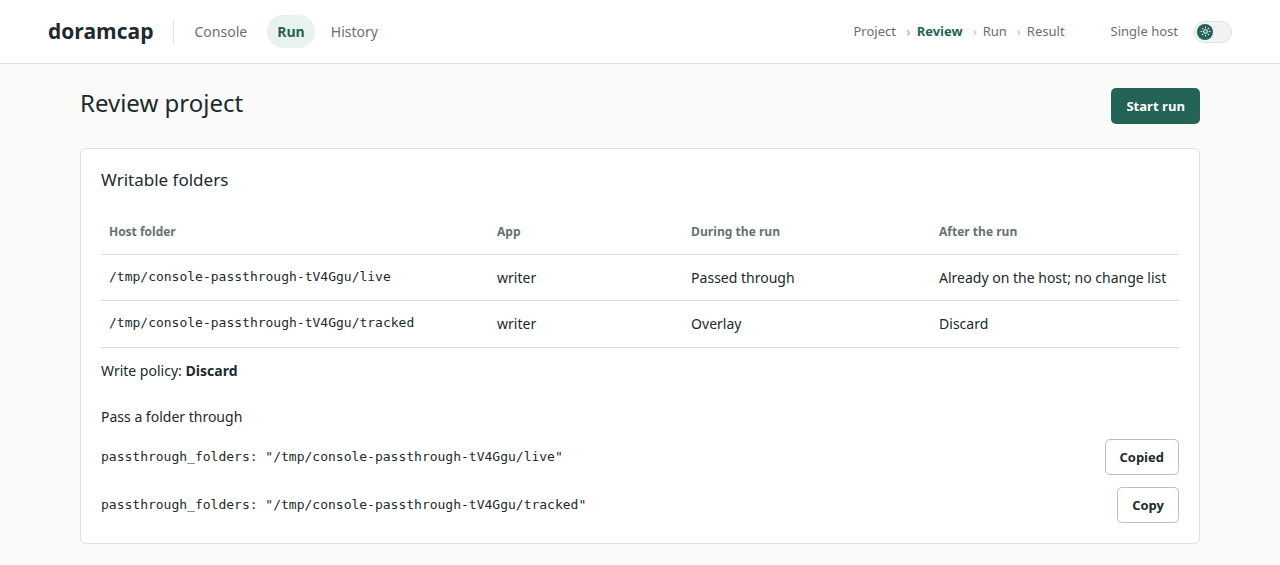
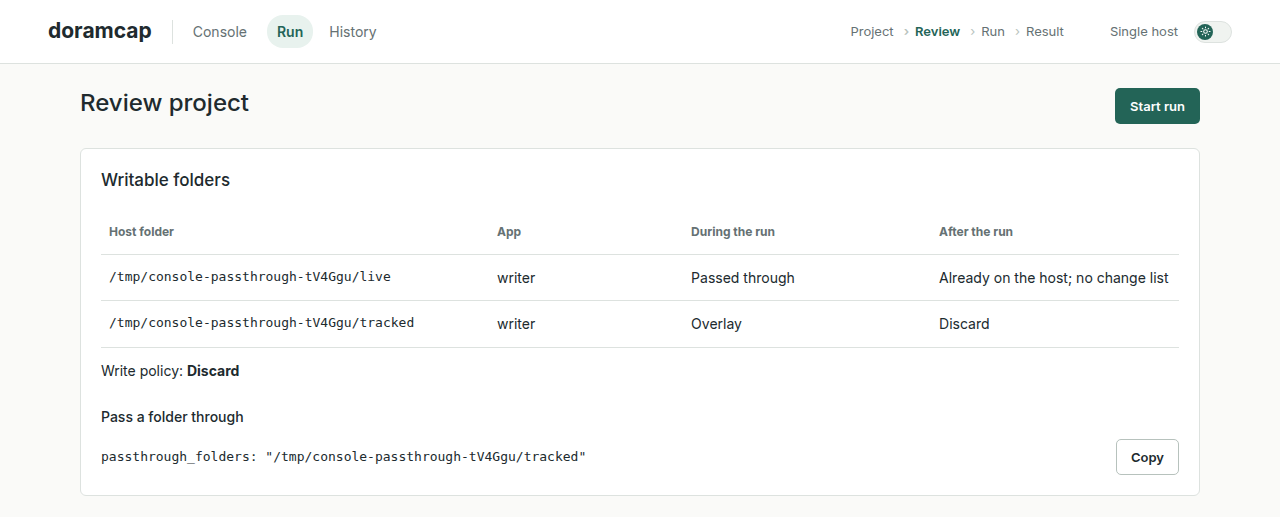
fix(console): offer passthrough settings only for overlay folders

diff --git a/console/frontend/src/ui/tokens.css b/console/frontend/src/ui/tokens.css
@@ -4,7 +4,7 @@
 --console-success:light-dark(#267047,#9fd8b4);--console-success-soft:light-dark(#eaf5ec,#1f3a2c);--console-attention:light-dark(#8b5a13,#e3bb7a);--console-attention-soft:light-dark(#fff3dc,#3a2f1c);--console-attention-line:light-dark(#e7c99b,#6b5530);--console-failure:light-dark(#8b2929,#f0a5a5);--console-failure-soft:light-dark(#fbecec,#402424);
 --console-step-running:light-dark(#177763,#5fbf9f);--console-step-succeeded:light-dark(#4a8bb7,#6fa9d1);--console-step-failed:light-dark(#b13c3c,#e07a7a);--console-step-cancelled:light-dark(#a26a1a,#d6a24f);--console-step-unknown:light-dark(#72857d,#8a9a94);--console-flow-dependency:light-dark(#526bb0,#8ea3dc);--console-flow-parent:light-dark(#8c6924,#c9a35a);
 @media(max-width:600px){--console-control-height:44px}
-font-family:system-ui,sans-serif;color:var(--console-ink);background:var(--console-bg);font-size:var(--console-font-size);line-height:1.55;
+font-family:var(--console-font);color:var(--console-ink);background:var(--console-bg);font-size:var(--console-font-size);line-height:1.55;
 &,*{box-sizing:border-box}button,input{font:inherit}button,a,input{outline-offset:2px}button:focus-visible,a:focus-visible,input:focus-visible{outline:2px solid var(--console-accent)}.topbar{height:64px;background:var(--console-panel);border-bottom:1px solid var(--console-line);display:flex;align-items:center;gap:20px;padding:0 48px;color:var(--console-muted)}.topbar strong{font-size:21px;color:var(--console-ink)}.divider{height:24px;width:1px;background:var(--console-line)}.topbar-end{display:flex;align-items:center;gap:16px;margin-left:auto}.phase-rail+.topbar-end{margin-left:24px}.host{font-size:13px}.theme-switch{display:flex;align-items:center;min-height:44px;padding:0;border:0;background:none;cursor:pointer}.theme-track{display:flex;width:38px;padding:2px;border:1px solid var(--console-line);border-radius:11px;background:var(--console-soft)}.theme-thumb{display:flex;align-items:center;justify-content:center;width:16px;height:16px;border-radius:50%;background:var(--console-accent);color:var(--console-panel);transition:transform .15s}.theme-switch[aria-checked=true] .theme-thumb{transform:translateX(18px)}@media(prefers-reduced-motion:reduce){.theme-thumb{transition:none}}.page{max-width:1200px;margin:auto;padding:24px 40px 40px}.phase-rail{display:flex;gap:6px;align-items:center;flex-wrap:wrap;margin-left:auto;font-size:13px}.phase{display:flex;align-items:center;padding:4px 2px;color:var(--console-muted)}.phase+.phase::before{content:'›';margin-right:6px;color:var(--console-field-line)}.phase.current{color:var(--console-accent);font-weight:600}.heading{display:flex;justify-content:space-between;align-items:flex-start;gap:24px;margin-bottom:24px}.heading h1{margin:0;font-size:24px;line-height:1.25;font-weight:var(--console-heading-weight)}.heading p{margin:4px 0 0;color:var(--console-muted)}.columns{display:grid;grid-template-columns:minmax(0,2.05fr) minmax(0,1fr);gap:24px;align-items:start}.columns>div,.columns>aside{display:grid;gap:20px}.panel{background:var(--console-panel);border:1px solid var(--console-line);border-radius:var(--console-radius-panel);padding:var(--console-panel-padding);min-width:0}.panel h2{font-size:17px;line-height:1.3;margin:0 0 20px}.panel h3{font-size:14px;margin:24px 0 8px}.panel p{margin:12px 0}.panel-heading{display:flex;justify-content:space-between;align-items:flex-start;gap:12px}.muted{color:var(--console-muted)}.mono{font-family:ui-monospace,SFMono-Regular,Consolas,monospace;font-size:13px}.break{overflow-wrap:anywhere}label,legend{font-size:13px;font-weight:600;display:block;margin:20px 0 8px}input:not([type=checkbox]){width:100%;height:var(--console-control-height);border:1px solid var(--console-field-line);border-radius:var(--console-radius-control);padding:0 12px;color:var(--console-ink);background:var(--console-panel)}fieldset{border:0;padding:0;margin:20px 0}.checkbox{display:flex;align-items:center;gap:10px;font-weight:400;margin:10px 0}.actions{display:flex;align-items:center;gap:12px;flex-wrap:wrap;margin-top:24px}.button{min-height:var(--console-control-height);border:1px solid transparent;border-radius:var(--console-radius-control);padding:6px 14px;display:inline-flex;align-items:center;justify-content:center;font-size:13px;font-weight:600;text-decoration:none;cursor:pointer}.button.primary{background:var(--console-accent);color:var(--console-on-accent)}.button.secondary,.button.stop{background:var(--console-panel);border-color:var(--console-field-line);color:var(--console-ink)}.button.stop{color:var(--console-attention)}.button:disabled{cursor:not-allowed;opacity:.55}.status{display:inline-block;border-radius:16px;padding:4px 10px;font-size:13px;font-weight:600;white-space:nowrap}.status.active{color:var(--console-accent);background:var(--console-accent-soft)}.status.success{color:var(--console-success);background:var(--console-success-soft)}.status.attention{color:var(--console-attention);background:var(--console-attention-soft)}.status.failure{color:var(--console-failure);background:var(--console-failure-soft)}.status.neutral{color:var(--console-muted);background:var(--console-soft)}.stopping-services{list-style:none;margin:0;padding:0;display:grid;gap:8px}.stopping-services li{overflow-wrap:anywhere}.notice{padding:12px 16px;background:var(--console-attention-soft);color:var(--console-attention);border-radius:var(--console-radius-control);margin:0 0 20px;overflow-wrap:anywhere}.failure-notice{background:var(--console-failure-soft);color:var(--console-failure);white-space:pre-wrap}.attention-panel{border-color:var(--console-attention-line);background:var(--console-attention-soft)}.table-wrap{max-width:100%}table{border-collapse:collapse;width:100%;table-layout:fixed}th,td{border-bottom:1px solid var(--console-line);text-align:left;padding:12px 8px;vertical-align:top;overflow-wrap:anywhere}th{font-size:12px;color:var(--console-muted)}td .status{white-space:normal}.duration{text-align:right;width:90px}.outcomes{display:grid;gap:0}.outcomes>div{display:flex;align-items:center;justify-content:space-between;gap:12px;padding:12px 0;border-bottom:1px solid var(--console-line)}.unavailable{color:var(--console-muted);font-size:14px}.sr-only{position:absolute;width:1px;height:1px;padding:0;margin:-1px;overflow:hidden;clip:rect(0,0,0,0);white-space:nowrap;border:0}@media(max-width:900px){.page{padding:20px 24px 48px}.columns{grid-template-columns:1fr}.heading{flex-wrap:wrap}.topbar{padding:0 24px}.phase-rail{gap:8px}.host{display:none}}@media(max-width:480px){.page{padding:16px}.panel{padding:20px}.heading h1{font-size:22px}.phase{padding:4px}.topbar{height:auto;flex-wrap:wrap;padding:12px 16px;gap:8px 12px}.phase-rail{margin-left:0;width:100%;order:1}.phase-rail+.topbar-end{margin-left:auto}.button{max-width:100%}th,td{padding:10px 4px}.duration{width:60px}}
 .activity-heading{align-items:center;flex-wrap:wrap}.activity-heading h2{margin-bottom:4px}.activity-heading p{margin:0;font-size:13px}.timeline-controls{display:flex;align-items:center;gap:8px;flex-wrap:wrap}.timeline-controls label{margin:0;font-size:13px}.timeline-controls .select{min-width:84px}.timeline-toggle{min-height:36px;padding:6px 12px}.activity-scroll{overflow-x:auto}.activity-timeline{display:block;width:100%;height:auto;margin-top:20px}.timeline-grid{stroke:var(--console-line);stroke-dasharray:3 5}.timeline-lane{fill:var(--console-accent-soft)}.timeline-axis{font-size:16px;fill:var(--console-muted)}.timeline-lane-label{font-size:15px;fill:var(--console-ink);font-weight:600}.timeline-empty{font-size:13px;fill:var(--console-muted)}.timeline-legend{display:flex;flex-wrap:wrap;gap:16px;font-size:12px;color:var(--console-muted)}.timeline-legend span{display:inline-flex;align-items:center;gap:6px}.timeline-key{width:10px;height:10px;border-radius:2px}.timeline-key.running{background:var(--console-step-running)}.timeline-key.completed{background:var(--console-step-succeeded)}.timeline-key.failed{background:var(--console-step-failed)}.timeline-key.cancelled{background:var(--console-step-cancelled)}@media(max-width:480px){.activity-timeline{min-width:900px}.activity-heading{align-items:flex-start}.timeline-controls{width:100%}}
 .timeline-event{cursor:pointer}.timeline-event:focus-visible{outline:3px solid var(--console-ink);outline-offset:3px}.detail-grid{display:grid;grid-template-columns:minmax(0,1fr) minmax(0,2fr);gap:8px 16px;font-size:13px}.detail-grid dt{color:var(--console-muted)}.detail-grid dd{margin:0;overflow-wrap:anywhere;font-family:ui-monospace,SFMono-Regular,Consolas,monospace}.event-details{border-top:1px solid var(--console-line);margin-top:20px}.timeline-position{margin:16px 0}.metric-value{font-size:26px;font-weight:var(--console-heading-weight)}.metric-chart{display:block;width:100%;height:auto}.metric-scale{font-size:10px;fill:var(--console-muted)}.phase-link{font:inherit;border:0;background:transparent;cursor:pointer}.phase-link:hover{color:var(--console-accent)}.run-view-actions{display:flex;gap:12px;flex-wrap:wrap}
@@ -67,5 +67,5 @@ input[type=checkbox]:disabled{opacity:.5;cursor:not-allowed}.checkbox:has(input:
 .log-list{list-style:none;padding:0;margin:0}.log-list li{display:grid;grid-template-columns:minmax(0,1fr) auto auto;gap:8px 16px;padding:12px 0;border-top:1px solid var(--console-line)}.log-program,.log-reason{overflow-wrap:anywhere}.log-reason{grid-column:1/-1;color:var(--console-muted)}
 
 .writable-folders{margin-bottom:24px}.writable-folders table{width:100%;table-layout:fixed}.writable-folders th:first-child{width:36%}.writable-folders th:nth-child(2){width:18%}.writable-folders td{vertical-align:top;overflow-wrap:anywhere}.folder-setting{display:flex;align-items:center;gap:12px;margin-top:12px}.folder-setting code{flex:1;min-width:0}.folder-setting button{flex-shrink:0}
-@media(max-width:640px){.writable-folders table,.writable-folders tbody{display:block}.writable-folders thead{position:absolute;width:1px;height:1px;overflow:hidden;clip-path:inset(50%)}.writable-folders tbody tr{display:block;border-bottom:1px solid var(--console-line);padding:8px 0}.writable-folders td{display:grid;grid-template-columns:100px minmax(0,1fr);gap:12px;border:0;padding:8px 0}.writable-folders td::before{content:attr(data-label);font-family:system-ui,sans-serif;font-size:13px;font-weight:600;color:var(--console-muted)}}
+@media(max-width:640px){.writable-folders table,.writable-folders tbody{display:block}.writable-folders thead{position:absolute;width:1px;height:1px;overflow:hidden;clip-path:inset(50%)}.writable-folders tbody tr{display:block;border-bottom:1px solid var(--console-line);padding:8px 0}.writable-folders td{display:grid;grid-template-columns:100px minmax(0,1fr);gap:12px;border:0;padding:8px 0}.writable-folders td::before{content:attr(data-label);font-family:var(--console-font);font-size:13px;font-weight:600;color:var(--console-muted)}}
 }

diff --git a/console/frontend/src/writable-folders.test.tsx b/console/frontend/src/writable-folders.test.tsx
@@ -25,7 +25,9 @@ for (const [policy, label] of [[Policy.WRITE_POLICY_WRITE_BACK, 'Write back'], [
   assert.match(html, /Not tracked: pseudo-filesystem or device mount/);
   assert.match(html, /Write policy:/);
   assert.match(html, /passthrough_folders: &quot;\/data\/shared&quot;/);
-  assert.match(html, /Copy passthrough setting for \/run\/robot/);
+  assert.doesNotMatch(html, /Copy passthrough setting for \/run\/robot/);
+  assert.doesNotMatch(html, /passthrough_folders: &quot;\/run\/robot&quot;/);
+  assert.equal((html.match(/class="folder-setting"/g) ?? []).length, 1);
   assert.doesNotMatch(html, /<(input|select|textarea)|role="switch"/);
   assert.ok(html.indexOf('Write policy:') > html.indexOf('</table>'));
 });
@@ -34,11 +36,22 @@ test('empty and unknown handling stay explicit; configuration paths retain their
   // Arrange / Act
   const empty = renderToStaticMarkup(<WritableFolders folders={[]}/>);
   const unknown = renderToStaticMarkup(<WritableFolders folders={[{ source: '/a/"quoted"', kind: 99 as typeof Kind.SOURCE_KIND_UNSPECIFIED }]}/>);
+  const overlay = renderToStaticMarkup(<WritableFolders folders={[{ source: '/a/"quoted"', kind: Kind.SOURCE_KIND_OVERLAY }]}/>);
   // Assert
   assert.match(empty, /No writable host folders/);
-  assert.match(empty, /passthrough_folders: &quot;&lt;folder&gt;&quot;/);
+  assert.doesNotMatch(empty, /passthrough_folders:|Pass a folder through/);
   assert.match(unknown, /Not tracked: handling unavailable/);
-  assert.ok(unknown.includes('\\&quot;quoted\\&quot;'));
+  assert.ok(overlay.includes('\\&quot;quoted\\&quot;'));
+  assert.doesNotMatch(unknown, /passthrough_folders:|Pass a folder through/);
+});
+
+test('already-passed-through folders keep their row and offer no config line', () => {
+  // Arrange / Act
+  const html = renderToStaticMarkup(<WritableFolders folders={[folders[1]]}/>);
+  // Assert
+  assert.match(html, /\/run\/robot/);
+  assert.match(html, /Passed through/);
+  assert.doesNotMatch(html, /passthrough_folders:|Pass a folder through|Copy/);
 });
 
 test('Result renders the saved folder handling and policy', () => {
@@ -47,4 +60,6 @@ test('Result renders the saved folder handling and policy', () => {
   const html = renderToStaticMarkup(<Result snapshot={snapshot} newRun={() => {}}/>);
   // Assert
   assert.match(html, /Writable folders/); assert.match(html, /\/data\/shared/); assert.match(html, /Keep with the run/);
+  assert.match(html, /Copy passthrough setting for \/data\/shared/);
+  assert.doesNotMatch(html, /Copy passthrough setting for \/run\/robot/);
 });

diff --git a/console/frontend/src/WritableFolders.tsx b/console/frontend/src/WritableFolders.tsx
@@ -9,7 +9,7 @@ type Folder = doramcap.filesystem.v1.IWritableFolder;
 /** Read-only handling of reviewed host folders; Copy only writes the clipboard. */
 export function WritableFolders({ folders, policy, kept }: { folders: Folder[]; policy?: number | null; kept?: string | null }) {
   const [copied, setCopied] = useState<{ source: string; success: boolean } | null>(null);
-  const settings = folders.length ? folders.map(folder => folder.source ?? '') : ['<folder>'];
+  const settings = folders.filter(folder => folder.kind === SourceKind.SOURCE_KIND_OVERLAY).map(folder => folder.source ?? '');
   const copy = async (source: string) => {
     try { await navigator.clipboard.writeText(`passthrough_folders: ${JSON.stringify(source)}`); setCopied({ source, success: true }); }
     catch { setCopied({ source, success: false }); }
@@ -25,10 +25,10 @@ export function WritableFolders({ folders, policy, kept }: { folders: Folder[]; 
       </tr>)}
     </tbody></table> : <p>No writable host folders.</p>}
     <WritePolicySetting policy={policy} kept={kept}/>
-    <h3>Pass a folder through</h3>
+    {settings.length > 0 && <><h3>Pass a folder through</h3>
     {settings.map(source => <div className="folder-setting" key={source}>
       <code className="mono break">{`passthrough_folders: ${JSON.stringify(source)}`}</code>
       <ActionButton variant="secondary" aria-label={`Copy passthrough setting for ${source}`} onClick={() => void copy(source)}>{copied?.source === source ? copied.success ? 'Copied' : 'Copy failed' : 'Copy'}</ActionButton>
-    </div>)}
+    </div>)}</>}
   </section>;
 }

diff --git a/console/server/tests/real-passthrough.ts b/console/server/tests/real-passthrough.ts
@@ -90,7 +90,7 @@ for (const form of ['COMPOSE', 'SYSTEMD']) await test(`${form}: live sockets pas
       await send('Page.bringToFront');
       await evaluate(`document.querySelector('.folder-setting button').click()`);
       await evaluate(waitText('Copied'));
-      assert.equal(await evaluate(`document.querySelector('.folder-setting code').textContent`), `passthrough_folders: ${JSON.stringify(live)}`);
+      assert.equal(await evaluate(`document.querySelector('.folder-setting code').textContent`), `passthrough_folders: ${JSON.stringify(tracked)}`);
       for (const width of [1280, 390]) {
         await send('Emulation.setDeviceMetricsOverride', { width, height: 900, deviceScaleFactor: 1, mobile: false });
         await evaluate('new Promise(done => requestAnimationFrame(() => requestAnimationFrame(done)))');
